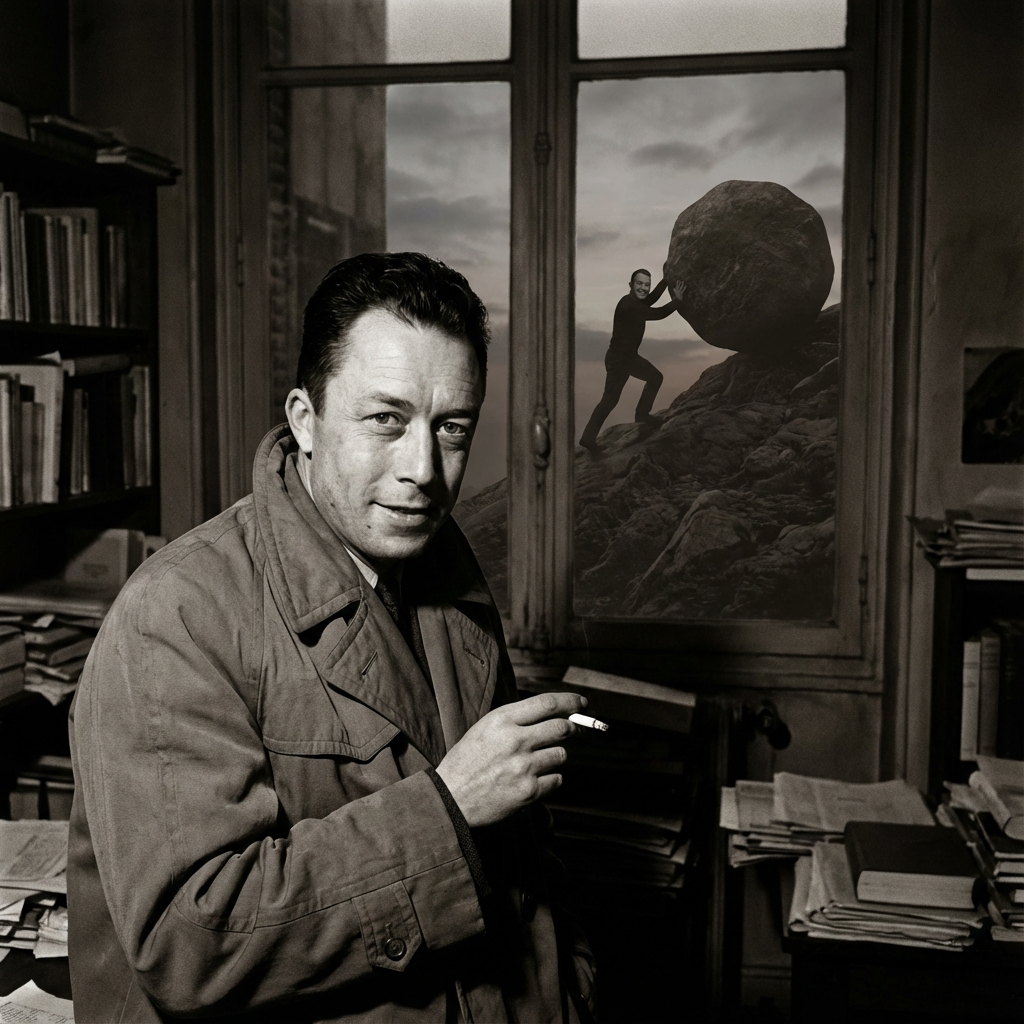
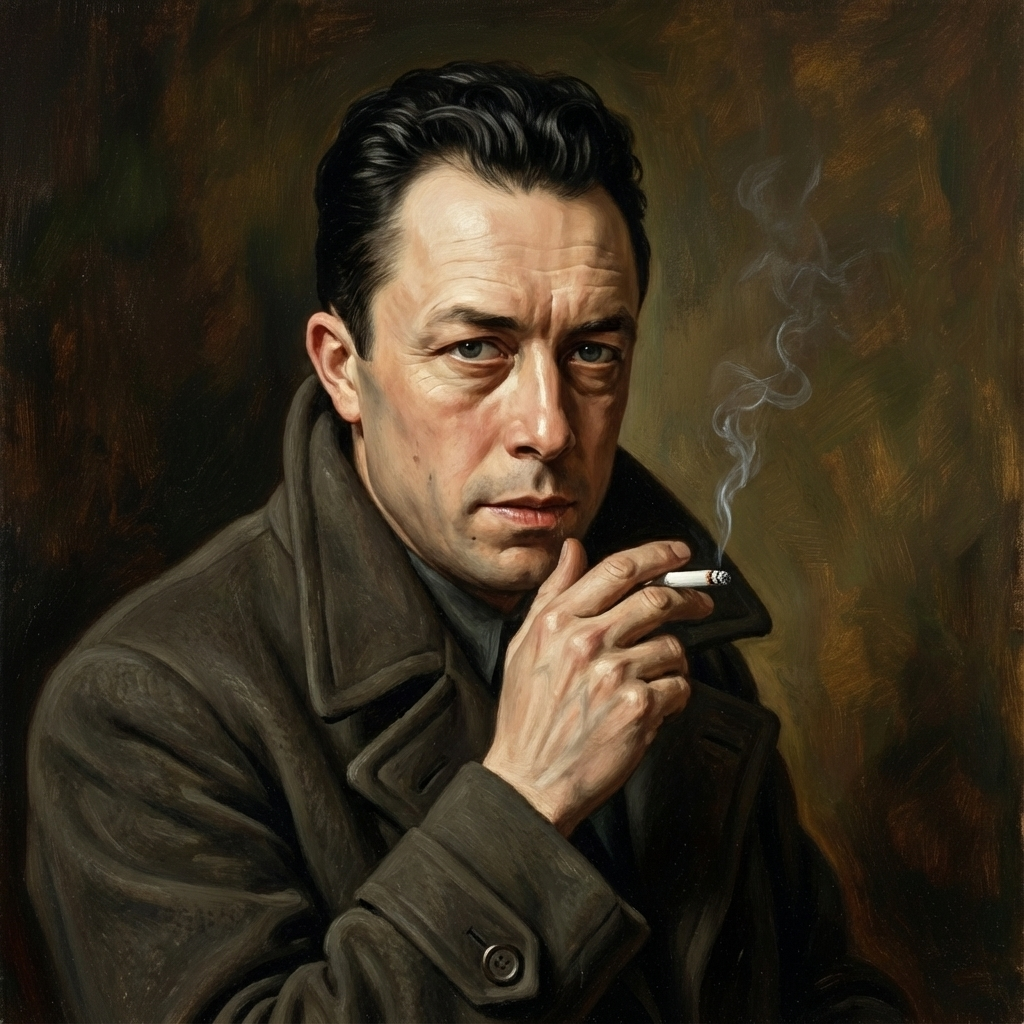
Update: Camus image & Synergy Nerf (Attack only)

diff --git a/src/hooks/useGameLogic.ts b/src/hooks/useGameLogic.ts
@@ -139,8 +139,9 @@ const calculateSynergies = (currentBoard: BoardMinion[], synergyBlockTurns: numb
         return {
             ...minion,
             attack: minion.attack + bonus,
-            maxHealth: minion.maxHealth + bonus,
-            health: minion.health + bonus,
+            // Health bonus removed as per request to nerve synergies
+            // maxHealth: minion.maxHealth + bonus,
+            // health: minion.health + bonus,
             synergyBonus: bonus,
             synergyBreakdown: breakdown,
             linkedWith: links[minion.instanceId || minion.id]
